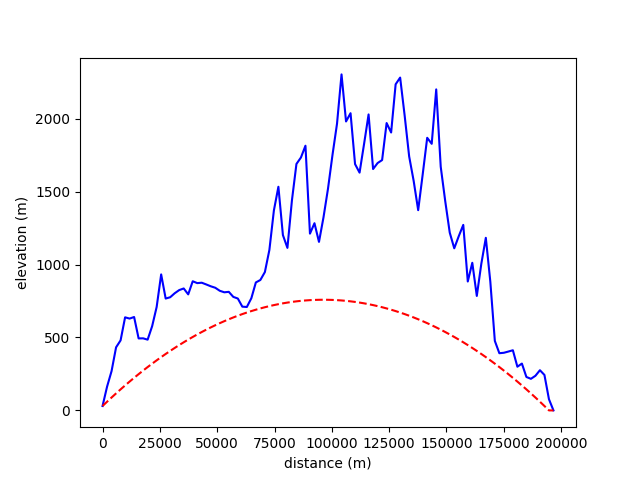
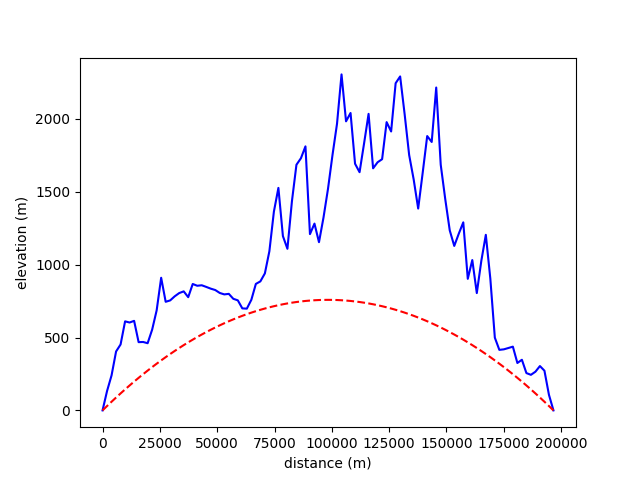
fixed small error in shift for the curvature

diff --git a/terrain_profile.py b/terrain_profile.py
@@ -190,7 +190,7 @@ class TerrainProfile(object):
 
         my_step = 1.0 * tot_dist / n_points
 
-        h = []
+        h = [0]
 
         for i in range(1, n_points):
             if my_step * i < tot_dist/2.0:
